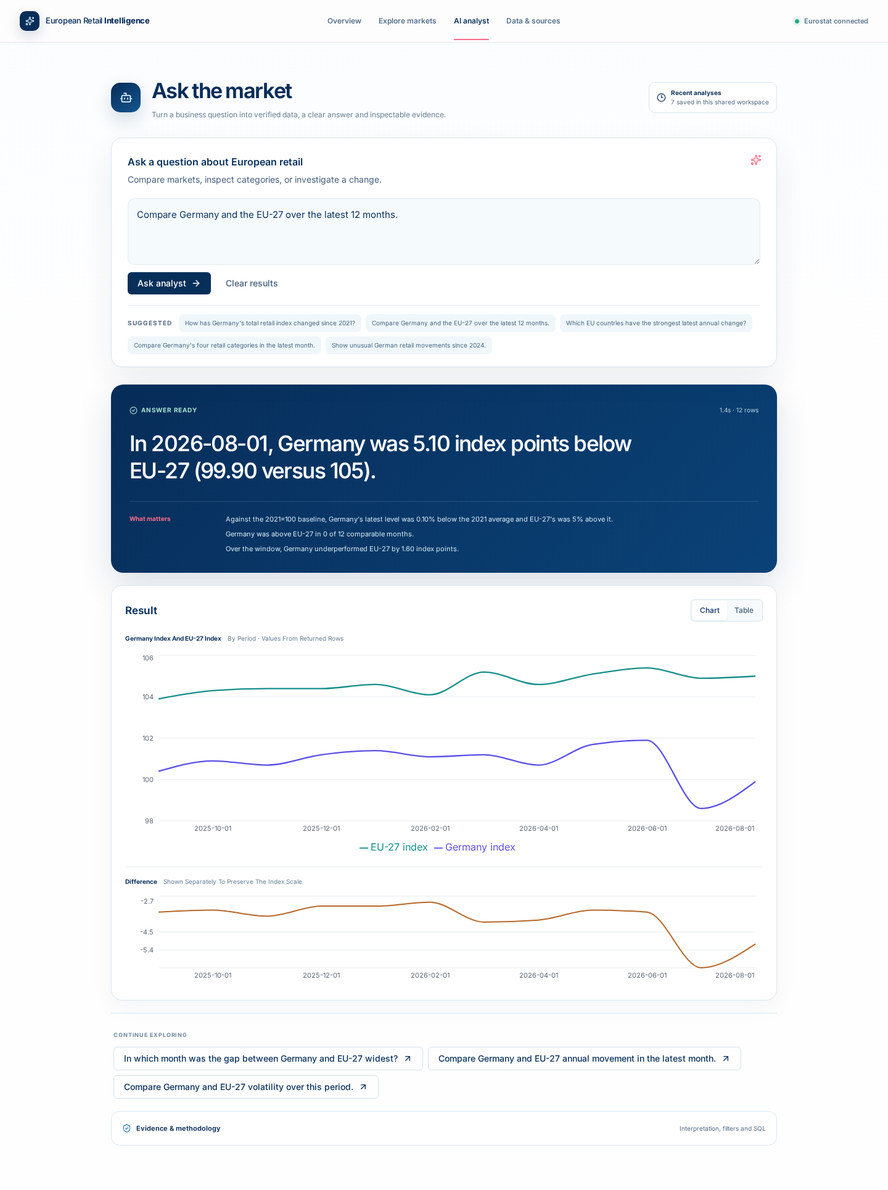
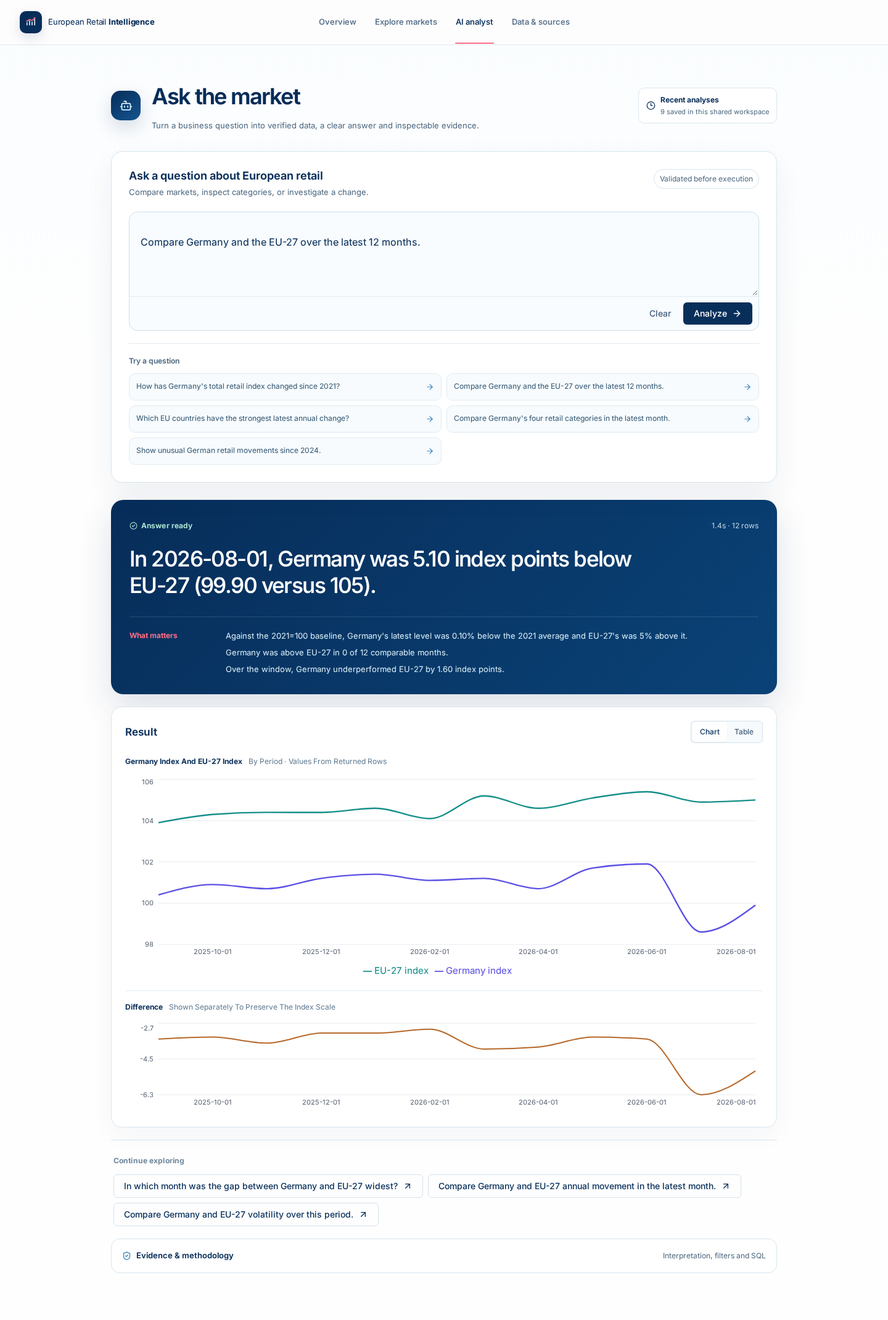
Refine visual cohesion and analyst experience

diff --git a/frontend/src/index.css b/frontend/src/index.css
@@ -12,10 +12,16 @@
   --border: 207 38% 88%; --input: 207 38% 84%; --ring: 349 97% 71%; --radius: .75rem;
   --navy: #072d59; --ice: #dbf2fc; --crimson: #fd6e88; --paper: #fefdfe; --azure: #3283be;
   --increase: #14775f; --decrease: #c83853; --series-germany: #fd6e88; --series-eu: #3283be;
+  --font-primary: InterVariable, Inter, ui-sans-serif, system-ui, sans-serif;
+  --type-display: clamp(3rem, 6vw, 4.875rem); --type-page: clamp(2.125rem, 4vw, 3rem); --type-section: clamp(1.5rem, 2.4vw, 2rem);
+  --type-subheading: 1.125rem; --type-body: .9375rem; --type-supporting: .8125rem; --type-meta: .75rem; --type-kpi: 1.75rem; --type-chart: .75rem;
+  --leading-tight: 1.08; --leading-heading: 1.2; --leading-body: 1.65;
+  --weight-regular: 430; --weight-medium: 560; --weight-semibold: 650; --weight-bold: 740;
+  --space-section: clamp(2.75rem, 6vw, 4.5rem); --surface-radius: 18px; --control-radius: 10px;
 }
 * { box-sizing: border-box; }
 html { min-width: 320px; background: var(--paper); }
-body { min-width: 320px; min-height: 100vh; margin: 0; background: linear-gradient(180deg, #fafdff 0, #fefefe 38rem); color: var(--navy); font-feature-settings: "cv02", "cv03", "cv04", "cv11"; -webkit-font-smoothing: antialiased; }
+body { min-width: 320px; min-height: 100vh; margin: 0; background: linear-gradient(180deg, #fafdff 0, #fefefe 38rem); color: var(--navy); font-family: var(--font-primary); font-size: var(--type-body); font-weight: var(--weight-regular); line-height: var(--leading-body); font-feature-settings: "cv02", "cv03", "cv04", "cv11"; -webkit-font-smoothing: antialiased; }
 button,input,textarea { font: inherit; }
 button,a,summary { -webkit-tap-highlight-color: transparent; }
 button:focus-visible,a:focus-visible,input:focus-visible,textarea:focus-visible,summary:focus-visible,[role="tab"]:focus-visible { outline: 3px solid rgba(253,110,136,.35); outline-offset: 2px; }
@@ -104,6 +110,119 @@ button:focus-visible,a:focus-visible,input:focus-visible,textarea:focus-visible,
 .full-answer { margin-bottom: 18px; border-bottom: 1px solid #e1ebf2; padding-bottom: 13px; }
 .full-answer p { margin-bottom: 0; color: #274b68; }
 
+/* Semantic typography and shared interaction system */
+.global-header-inner { min-height: 72px; }
+.brand-mark { width: 36px; height: 36px; border-radius: 10px; box-shadow: 0 7px 20px rgba(7,45,89,.14); }
+.brand-mark svg { width: 22px; height: 22px; }
+.brand-name { font-size: var(--type-supporting); font-weight: var(--weight-regular); letter-spacing: -.015em; }
+.brand-name strong { font-weight: var(--weight-bold); }
+.top-nav-link { padding: 10px 13px; font-size: var(--type-supporting); font-weight: var(--weight-medium); }
+.top-nav-link.is-active::after { bottom: -14px; }
+.workspace-page { padding-block: 54px 76px; }
+.page-header { margin-bottom: 36px; }
+.page-header h1 { font-size: var(--type-page); font-weight: var(--weight-semibold); letter-spacing: -.052em; line-height: var(--leading-tight); }
+.page-header p { margin-top: 14px; color: #526d85; font-size: var(--type-body); line-height: var(--leading-body); }
+.page-meta { border-radius: var(--control-radius); padding: 8px 11px; color: #526d85; font-size: var(--type-meta); box-shadow: none; }
+.section-label { color: var(--azure); font-size: var(--type-meta); font-weight: var(--weight-semibold); letter-spacing: .01em; text-transform: none; }
+.panel-heading h2,.data-section h2,.methodology-section h2 { font-size: var(--type-section); font-weight: var(--weight-semibold); line-height: var(--leading-heading); }
+.panel-heading > p { color: #526d85; font-size: var(--type-supporting); line-height: 1.55; }
+
+/* Overview composition */
+.hero-copy { padding-left: 60px; }
+.hero-period { display: grid; grid-template-columns: 18px auto; align-items: center; width: fit-content; gap: 0 9px; color: #c8e6f5; }
+.hero-period svg { grid-row: 1 / 3; width: 17px; }
+.hero-period span { font-size: var(--type-meta); line-height: 1.2; }
+.hero-period strong { color: white; font-size: var(--type-supporting); font-weight: var(--weight-semibold); line-height: 1.4; }
+.hero-copy h1 { margin-top: 31px; font-size: var(--type-display); font-weight: 590; line-height: .95; }
+.hero-copy > p { color: #c5deea; font-size: var(--type-body); line-height: 1.7; }
+.hero-chart-head span { font-size: var(--type-meta); }
+.hero-chart-head strong { font-size: 2.25rem; font-weight: var(--weight-medium); }
+.movement { font-size: var(--type-meta); }
+.trend-legend { display: flex; justify-content: center; gap: 24px; padding: 2px 8px 5px; color: #c5deea; font-size: var(--type-chart); font-weight: var(--weight-medium); }
+.trend-legend span { display: inline-flex; align-items: center; gap: 8px; }
+.legend-line { display: inline-block; width: 22px; height: 3px; border-radius: 4px; background: currentColor; }
+.legend-line.germany { color: var(--series-germany); }
+.legend-line.eu { color: #7dd3fc; }
+.light-chart .trend-legend { color: #526d85; }
+.light-chart .legend-line.eu { color: var(--series-eu); }
+.chart-baseline { font-size: var(--type-meta); }
+.signal-strip { margin-top: 26px; }
+.signal-strip > div { gap: 7px; min-height: 126px; align-content: center; padding: 22px 28px; }
+.signal-strip span { color: #526d85; font-size: var(--type-meta); font-weight: var(--weight-semibold); }
+.signal-strip strong { font-size: var(--type-kpi); font-weight: var(--weight-semibold); line-height: 1.05; }
+.signal-strip small { color: #667f96; font-size: var(--type-meta); line-height: 1.45; }
+.overview-brief { grid-template-columns: minmax(0,1.15fr) minmax(440px,.85fr); align-items: center; gap: 60px; padding: var(--space-section) 40px 16px; }
+.overview-brief h2 { margin-top: 14px; font-size: clamp(1.8rem,3vw,2.5rem); font-weight: 580; }
+.brief-facts { align-self: stretch; align-items: center; }
+.brief-facts p { align-content: center; gap: 8px; padding: 18px 20px; border-right: 1px solid #d8e7f0; }
+.brief-facts p:last-child { border-right: 0; }
+.brief-facts strong { font-size: 1.25rem; font-weight: var(--weight-semibold); }
+.brief-facts span { color: #526d85; font-size: var(--type-meta); line-height: 1.5; }
+
+/* Explore and data labels */
+.explore-tabs > [role="tablist"] [role="tab"] { font-size: var(--type-supporting); font-weight: var(--weight-medium); }
+.inline-metrics span,.data-list span { color: #526d85; font-size: var(--type-meta); line-height: 1.45; }
+.inline-metrics strong,.data-list strong { font-size: 1.45rem; font-weight: var(--weight-semibold); }
+.data-list small,.change-list span,.method-detail,.empty-message p { font-size: var(--type-meta); }
+.country-table > div { min-height: 56px; font-size: var(--type-supporting); }
+.country-table .country-header { min-height: 42px; color: #526d85; font-size: var(--type-meta); font-weight: var(--weight-semibold); text-transform: none; }
+.country-name { display: flex; flex-wrap: wrap; align-items: center; gap: 8px; }
+.provisional-status { display: inline-flex; align-items: center; border: 1px solid #c5ddea; border-radius: 999px; background: #f2f9fc; padding: 2px 7px; color: #48677f; font-size: .6875rem; font-weight: var(--weight-medium); }
+.provisional-note { display: flex; align-items: center; gap: 8px; margin: -8px 0 16px; color: #526d85; font-size: var(--type-meta); }
+.provisional-note svg { width: 15px; flex: 0 0 auto; color: var(--azure); }
+.provisional-note strong { color: var(--navy); font-weight: var(--weight-semibold); }
+
+/* Analyst command surface */
+.analyst-page { width: min(1080px,calc(100% - 64px)); }
+.analyst-intro { margin-bottom: 30px; }
+.analyst-intro h1 { font-size: 2.25rem; font-weight: var(--weight-semibold); }
+.analyst-intro p { margin-top: 7px; color: #526d85; font-size: var(--type-supporting); }
+.query-composer { border-radius: var(--surface-radius); padding: 28px; box-shadow: 0 18px 48px rgba(7,45,89,.065); }
+.composer-heading { display: flex; align-items: flex-start; justify-content: space-between; gap: 20px; }
+.composer-heading label { display: block; font-size: var(--type-subheading); font-weight: var(--weight-semibold); line-height: var(--leading-heading); }
+.composer-heading p { margin: 6px 0 0; color: #526d85; font-size: var(--type-supporting); }
+.composer-shortcut { flex: 0 0 auto; border: 1px solid #d7e6ef; border-radius: 999px; padding: 5px 9px; color: #526d85; font-size: var(--type-meta); }
+.composer-field { margin-top: 20px; overflow: hidden; border: 1px solid #cbdfea; border-radius: 14px; background: #f8fcfe; transition: border-color 180ms ease, box-shadow 180ms ease, background-color 180ms ease; }
+.composer-field:focus-within { border-color: #7db8d8; background: white; box-shadow: 0 0 0 4px rgba(50,131,190,.1); }
+.analyst-input { display: block; width: 100%; min-height: 118px; resize: vertical; border: 0; outline: 0; background: transparent; padding: 18px 18px 10px; color: var(--navy); font: inherit; font-size: 1rem; line-height: 1.6; box-shadow: none; }
+.analyst-input::placeholder { color: #7a91a5; }
+.composer-actions { display: flex; align-items: center; justify-content: flex-end; gap: 4px; border-top: 1px solid #e1ebf2; padding: 9px 10px; }
+.composer-submit { min-width: 112px; }
+.composer-progress { display: flex; align-items: center; gap: 9px; margin-top: 12px; color: #526d85; font-size: var(--type-meta); }
+.composer-progress > span { width: 8px; height: 8px; border-radius: 50%; background: var(--crimson); box-shadow: 0 0 0 4px rgba(253,110,136,.12); animation: pulse 1.2s ease-in-out infinite; }
+.query-suggestions { display: grid; grid-template-columns: repeat(2,minmax(0,1fr)); gap: 8px; margin-top: 20px; padding-top: 18px; }
+.query-suggestions > span { grid-column: 1 / -1; margin: 0 0 2px; color: #526d85; font-size: var(--type-meta); font-weight: var(--weight-semibold); letter-spacing: 0; text-transform: none; }
+.query-suggestion { display: flex; align-items: center; justify-content: space-between; gap: 12px; min-height: 42px; border: 1px solid #e0ebf2; border-radius: var(--control-radius); background: #f7fbfd; padding: 9px 11px; color: #365a76; font-size: var(--type-meta); line-height: 1.4; }
+.query-suggestion svg { width: 14px; flex: 0 0 auto; color: var(--azure); }
+.query-suggestion:hover { transform: none; border-color: #a9cfe2; background: var(--ice); }
+.history-launcher-copy strong,.history-list small { font-size: var(--type-meta); }
+.history-launcher-copy small { font-size: .6875rem; }
+.inline-notice,.error-state p,.clarification-state p { font-size: var(--type-supporting); }
+.clarification-state small,.clarification-submit { font-size: var(--type-meta); }
+.answer-status span,.answer-status small,.answer-values span,.answer-highlights > span,.chart-caption,.result-table-wrap thead,.follow-up-section > span,.evidence-disclosure > summary small,.evidence-overview > div > span,.caveat-list > span,.evidence-overview dt,.evidence-overview dd,.evidence-meta,.analysis-warning { font-size: var(--type-meta); }
+.answer-status span,.follow-up-section > span,.evidence-overview > div > span,.caveat-list > span { letter-spacing: .01em; text-transform: none; }
+.answer-highlights ul,.evidence-overview p,.caveat-list ul,.evidence-disclosure > summary span,.sql-disclosure summary { font-size: var(--type-supporting); }
+
+/* Data methodology composition */
+.health-status p,.health-grid span,.definition-list dt,.definition-list dd { font-size: var(--type-meta); }
+.health-grid strong { font-size: var(--type-kpi); font-weight: var(--weight-semibold); }
+.data-layout { gap: 56px; margin-top: 54px; }
+.definition-list > div { min-height: 54px; align-items: center; }
+.definition-list dd { color: #365a76; line-height: 1.55; }
+.methodology-section { grid-template-columns: minmax(0,1fr) minmax(340px,.8fr); align-items: stretch; gap: 56px; margin-top: 54px; padding-top: 40px; }
+.methodology-intro,.methodology-details { min-width: 0; }
+.methodology-section > div > p,.methodology-section details p { color: #526d85; font-size: var(--type-supporting); line-height: var(--leading-body); }
+.methodology-intro > a { display: inline-flex; align-items: center; gap: 7px; margin-top: 12px; color: var(--azure); font-size: var(--type-supporting); font-weight: var(--weight-semibold); text-decoration: none; }
+.methodology-intro > a:hover { text-decoration: underline; text-underline-offset: 3px; }
+.methodology-intro > a svg { width: 14px; }
+.methodology-details { border-left: 1px solid #d8e7f0; padding-left: 42px; }
+.methodology-details h3 { margin: 0; font-size: var(--type-subheading); font-weight: var(--weight-semibold); }
+.methodology-details > p { margin: 8px 0 18px; }
+.methodology-details details { border-top: 1px solid #d8e7f0; padding-top: 15px; }
+.methodology-section summary { font-size: var(--type-supporting); }
+
+@keyframes pulse { 50% { opacity: .45; transform: scale(.82); } }
+
 @keyframes page-enter { from { opacity: 0; transform: translateY(6px); } to { opacity: 1; transform: none; } }
 @keyframes nav-in { from { transform: scaleX(.5); opacity: 0; } }
 @keyframes spin { to { transform: rotate(360deg); } }
@@ -116,6 +235,30 @@ button:focus-visible,a:focus-visible,input:focus-visible,textarea:focus-visible,
   .explore-tabs > [role="tablist"] { width: 100%; overflow-x: auto; justify-content: flex-start; }.explore-tabs > [role="tablist"] [role="tab"] { flex: 0 0 auto; padding-inline: 12px; }.explore-panel { padding-inline: 0; }.panel-heading { flex-direction: column; gap: 8px; }.panel-heading > p { text-align: left; }.light-chart { padding: 12px 5px; }.light-chart .trend-chart { height: 280px; }.inline-metrics,.data-list { grid-template-columns: 1fr 1fr; }.inline-metrics p:nth-child(2),.data-list > div:nth-child(2) { border-right: 0; }.inline-metrics p,.data-list > div { border-bottom: 1px solid #d8e7f0; padding: 14px 10px; }.category-explore-chart { height: 320px; padding: 10px 0; }.country-table > div { grid-template-columns: 48px 1fr 80px; padding-inline: 8px; }.country-table > div > *:nth-child(3) { display: none; }.change-list article { grid-template-columns: 36px 1fr; }.change-list article > p { grid-column: 2; text-align: left; }
   .analyst-intro { grid-template-columns: auto 1fr; }.analyst-intro h1 { font-size: 28px; }.analyst-intro > .history-launcher { grid-column: 1 / -1; width: 100%; }.query-composer { padding: 20px 16px 16px; }.query-suggestions { align-items: stretch; flex-direction: column; }.query-suggestion { width: 100%; padding: 9px; }.clarification-state { align-items: flex-start; }.clarification-state form { flex-direction: column; }.answer-hero { border-radius: 16px; padding: 22px 18px; }.answer-status { align-items: flex-start; flex-direction: column; }.answer-hero h2 { font-size: 24px; }.answer-values { display: grid; }.answer-values > div { border-left: 0; border-top: 1px solid rgba(219,242,252,.15); padding: 12px 0; }.answer-highlights { grid-template-columns: 1fr; gap: 8px; }.result-surface { padding: 16px 12px; }.result-chart { height: 270px; }.evidence-disclosure > summary { align-items: flex-start; flex-direction: column; gap: 4px; }.evidence-content { grid-template-columns: 1fr; }.sql-disclosure { border-top: 1px solid #e1ebf2; border-left: 0; }.follow-up-section > div { flex-direction: column; align-items: stretch; }
   .health-status { align-items: flex-start; padding: 22px 18px; }.health-grid { grid-template-columns: 1fr 1fr; }.health-grid p { padding: 16px 18px; border-bottom: 1px solid rgba(219,242,252,.13); }.health-grid p:nth-child(2) { border-right: 0; }.data-layout { grid-template-columns: 1fr; }.methodology-section { grid-template-columns: 1fr; gap: 20px; }.methodology-section > a { grid-column: auto; }.definition-list > div { grid-template-columns: 100px 1fr; }
+}
+@media (max-width: 680px) {
+  .workspace-page { padding-block: 32px 52px; }
+  .brand-name { font-size: var(--type-meta); }
+  .hero-period { margin-left: 1px; }
+  .signal-strip > div { min-height: 106px; }
+  .overview-brief { gap: 24px; }
+  .brief-facts p { border-right: 0; }
+  .analyst-intro { gap: 13px; }
+  .analyst-intro h1 { font-size: 1.875rem; }
+  .query-composer { padding: 20px 16px; }
+  .composer-heading { display: block; }
+  .composer-shortcut { display: inline-flex; margin-top: 12px; }
+  .analyst-input { min-height: 132px; padding: 16px; font-size: var(--type-body); }
+  .composer-actions { justify-content: space-between; }
+  .composer-submit { min-width: 120px; }
+  .query-suggestions { grid-template-columns: 1fr; }
+  .query-suggestions > span { grid-column: auto; }
+  .query-suggestion { width: 100%; min-height: 46px; padding: 10px 12px; }
+  .provisional-note { align-items: flex-start; }
+  .country-name { gap: 5px; }
+  .provisional-status { padding: 1px 5px; font-size: .625rem; }
+  .methodology-section { gap: 28px; }
+  .methodology-details { border-top: 1px solid #d8e7f0; border-left: 0; padding-top: 24px; padding-left: 0; }
 }
 @media (prefers-reduced-motion: reduce) { *,*::before,*::after { scroll-behavior: auto !important; animation-duration: .01ms !important; animation-iteration-count: 1 !important; transition-duration: .01ms !important; } }
 @media (max-width: 980px) { .mobile-navigation { display: grid; } }

diff --git a/frontend/src/components/MarketWorkspaces.tsx b/frontend/src/components/MarketWorkspaces.tsx
@@ -1,7 +1,7 @@
 import { useState } from "react";
-import { ArrowRight, CheckCircle2, ExternalLink, Info, TrendingDown, TrendingUp } from "lucide-react";
+import { ArrowRight, CalendarDays, CheckCircle2, ExternalLink, Info, TrendingDown, TrendingUp } from "lucide-react";
 import { Link } from "react-router-dom";
-import { Bar, BarChart, CartesianGrid, Cell, Legend, Line, LineChart, ReferenceLine, ResponsiveContainer, Tooltip, XAxis, YAxis } from "recharts";
+import { Bar, BarChart, CartesianGrid, Cell, Line, LineChart, ReferenceLine, ResponsiveContainer, Tooltip, XAxis, YAxis } from "recharts";
 import type { RetailOverview } from "../types/query";
 import { Tabs, TabsContent, TabsList, TabsTrigger } from "./ui/tabs";
 
@@ -20,7 +20,7 @@ function State({ overview, failed, children }: { overview: RetailOverview | null
 function TrendChart({ data, tone = "dark" }: { data: RetailOverview["history"]; tone?: "dark" | "light" }) {
   const light = tone === "light";
   const axisColor = light ? "#526f88" : "#a9cadb";
-  return <figure className="market-figure" data-chart-ready="true"><figcaption className="sr-only">Germany and EU-27 monthly retail volume indices, with 2021 equal to 100.</figcaption><div className="trend-chart"><ResponsiveContainer width="100%" height="100%"><LineChart data={data} margin={{ top: 12, right: 10, left: -12, bottom: 0 }} accessibilityLayer><CartesianGrid stroke={light ? "#d6e7f0" : "rgba(219,242,252,.18)"} vertical={false}/><XAxis dataKey="period" tickFormatter={monthDate} tick={{ fill: axisColor, fontSize: 11 }} minTickGap={32} axisLine={false} tickLine={false}/><YAxis domain={["auto", "auto"]} tick={{ fill: axisColor, fontSize: 11 }} width={42} axisLine={false} tickLine={false}/><ReferenceLine y={100} stroke={axisColor} strokeOpacity={light ? .65 : .35} strokeDasharray="4 4"/><Tooltip labelFormatter={(value) => monthDate(String(value))} contentStyle={{ border: 0, borderRadius: 12, boxShadow: "0 14px 40px rgba(7,45,89,.18)", color: "#072D59" }}/><Legend iconType="plainline"/><Line name="Germany" type="monotone" dataKey="germany" stroke="#FD6E88" strokeWidth={3} dot={false} connectNulls isAnimationActive={false}/><Line name="EU-27" type="monotone" dataKey="eu" stroke={light ? "#3283BE" : "#7DD3FC"} strokeWidth={2.4} dot={false} connectNulls isAnimationActive={false}/></LineChart></ResponsiveContainer></div></figure>;
+  return <figure className="market-figure" data-chart-ready="true"><figcaption className="sr-only">Germany and EU-27 monthly retail volume indices, with 2021 equal to 100.</figcaption><div className="trend-chart"><ResponsiveContainer width="100%" height="100%"><LineChart data={data} margin={{ top: 12, right: 10, left: -12, bottom: 0 }} accessibilityLayer><CartesianGrid stroke={light ? "#d6e7f0" : "rgba(219,242,252,.18)"} vertical={false}/><XAxis dataKey="period" tickFormatter={monthDate} tick={{ fill: axisColor, fontSize: 12 }} minTickGap={32} axisLine={false} tickLine={false}/><YAxis domain={["auto", "auto"]} tick={{ fill: axisColor, fontSize: 12 }} width={42} axisLine={false} tickLine={false}/><ReferenceLine y={100} stroke={axisColor} strokeOpacity={light ? .65 : .35} strokeDasharray="4 4"/><Tooltip labelFormatter={(value) => monthDate(String(value))} contentStyle={{ border: 0, borderRadius: 10, boxShadow: "0 14px 40px rgba(7,45,89,.18)", color: "#072D59", fontSize: 12 }}/><Line name="Germany" type="monotone" dataKey="germany" stroke="#FD6E88" strokeWidth={3} dot={false} connectNulls isAnimationActive={false}/><Line name="EU-27" type="monotone" dataKey="eu" stroke={light ? "#3283BE" : "#7DD3FC"} strokeWidth={2.4} dot={false} connectNulls isAnimationActive={false}/></LineChart></ResponsiveContainer></div><div className="trend-legend" aria-label="Chart legend"><span><i className="legend-line germany"/>Germany</span><span><i className="legend-line eu"/>EU-27</span></div></figure>;
 }
 
 function PageHeader({ title, description, meta }: { title: string; description: string; meta?: string }) {
@@ -32,7 +32,7 @@ export function OverviewWorkspace({ overview, failed }: { overview: RetailOvervi
     const lead = data.germany_yearly_change == null ? "Germany's latest annual movement is unavailable." : `Germany is ${Math.abs(data.germany_yearly_change).toFixed(1)} index points ${data.germany_yearly_change >= 0 ? "above" : "below"} its level a year earlier.`;
     return <div className="workspace-page overview-page page-enter">
       <section className="overview-hero">
-        <div className="hero-copy"><span className="hero-kicker">European market pulse · {data.latest_period ? monthDate(data.latest_period) : "Latest data"}</span><h1>Retail signals,<br/><em>made legible.</em></h1><p>{lead} Compare the current signal with the EU benchmark and explore what changed.</p><div className="hero-actions"><Link className="hero-button" to="/explore">Explore the market <ArrowRight /></Link><Link className="hero-link" to="/analyst">Ask a question</Link></div></div>
+        <div className="hero-copy"><div className="hero-period"><CalendarDays/><span>Latest reporting period</span><strong>{data.latest_period ? monthDate(data.latest_period) : "Latest data"}</strong></div><h1>Retail signals,<br/><em>made legible.</em></h1><p>{lead} Compare the current signal with the EU benchmark and explore what changed.</p><div className="hero-actions"><Link className="hero-button" to="/explore">Explore the market <ArrowRight /></Link><Link className="hero-link" to="/analyst">Ask a question</Link></div></div>
         <div className="hero-visual"><div className="hero-chart-head"><div><span>Retail volume index</span><strong>{data.germany_value == null ? "—" : number(data.germany_value)}</strong></div><span className={(data.germany_yearly_change ?? 0) < 0 ? "movement down" : "movement up"}>{(data.germany_yearly_change ?? 0) < 0 ? <TrendingDown/> : <TrendingUp/>}{signed(data.germany_yearly_change)} year on year</span></div><TrendChart data={data.history}/><div className="chart-baseline"><Info/> 100 represents average retail volume in 2021</div></div>
       </section>
       <section className="signal-strip" aria-label="Latest market indicators"><div><span>Germany</span><strong>{data.germany_value == null ? "—" : number(data.germany_value)}</strong><small>Retail volume index</small></div><div><span>Monthly move</span><strong>{signed(data.germany_monthly_change)}</strong><small>From previous month</small></div><div><span>Annual move</span><strong>{signed(data.germany_yearly_change)}</strong><small>From same month last year</small></div><div><span>EU position</span><strong>{data.germany_rank ? `${data.germany_rank} / ${data.ranked_country_count}` : "—"}</strong><small>By annual movement</small></div></section>
@@ -51,7 +51,19 @@ export function ExploreWorkspace({ overview, failed }: { overview: RetailOvervie
       <Tabs value={view} onValueChange={setView} className="explore-tabs"><TabsList aria-label="Market exploration views"><TabsTrigger value="performance">Performance</TabsTrigger><TabsTrigger value="categories">Categories</TabsTrigger><TabsTrigger value="countries">Countries</TabsTrigger><TabsTrigger value="changes">Change detection</TabsTrigger></TabsList>
         <TabsContent value="performance" className="explore-panel"><div className="panel-heading"><div><span className="section-label">Trend</span><h2>Germany and EU-27</h2></div><p>Seasonally adjusted retail volume. Values above 100 exceed the 2021 average.</p></div><div className="light-chart"><TrendChart data={data.history} tone="light"/></div><div className="inline-metrics"><p><span>Germany latest</span><strong>{data.germany_value == null ? "—" : number(data.germany_value)}</strong></p><p><span>EU-27 latest</span><strong>{data.eu_value == null ? "—" : number(data.eu_value)}</strong></p><p><span>Current gap</span><strong>{data.germany_value != null && data.eu_value != null ? signed(data.germany_value - data.eu_value) : "—"}</strong></p><p><span>Germany volatility</span><strong>{data.germany_volatility == null ? "—" : number(data.germany_volatility)}</strong></p></div></TabsContent>
         <TabsContent value="categories" className="explore-panel"><div className="panel-heading"><div><span className="section-label">Germany</span><h2>Category position</h2></div><p>Distance in index points from the 2021 average.</p></div><div className="category-explore-chart"><ResponsiveContainer width="100%" height="100%"><BarChart data={categories} layout="vertical" margin={{ left: 12, right: 22 }} accessibilityLayer><CartesianGrid stroke="#e4edf4" horizontal={false}/><XAxis type="number" domain={[-extent, extent]} tickFormatter={(value) => `${Number(value) > 0 ? "+" : ""}${value}`} axisLine={false} tickLine={false}/><YAxis type="category" dataKey="name" width={160} tick={{ fontSize: 11, fill: "#36516e" }} axisLine={false} tickLine={false}/><ReferenceLine x={0} stroke="#072D59"/><Tooltip formatter={(value) => [`${signed(Number(value))} from 2021`, "Position"]}/><Bar dataKey="deviation" radius={4} isAnimationActive={false}>{categories.map((item) => <Cell key={item.code} fill={item.deviation < 0 ? "#FD6E88" : "#3283BE"}/>)}</Bar></BarChart></ResponsiveContainer></div><div className="data-list">{data.categories.map((item) => <div key={item.code}><span>{item.name}</span><strong>{number(item.value)}</strong><small className={(item.yearly_change ?? 0) < 0 ? "negative" : "positive"}>{signed(item.yearly_change)} annual</small></div>)}</div></TabsContent>
-        <TabsContent value="countries" className="explore-panel"><div className="panel-heading"><div><span className="section-label">Benchmark</span><h2>Annual movement by country</h2></div><p>Leading countries plus Germany, ranked on the latest comparable month.</p></div><div className="country-table" role="table" aria-label="Country benchmark"><div role="row" className="country-header"><span>Rank</span><span>Market</span><span>Index</span><span>Annual move</span></div>{countries.map((country) => <div role="row" className={country.code === "DE" ? "is-germany" : ""} key={country.code}><span>{String(country.rank).padStart(2, "0")}</span><strong>{country.name}{country.provisional ? " *" : ""}</strong><span>{number(country.value)}</span><span className={country.yearly_change < 0 ? "negative" : "positive"}>{signed(country.yearly_change)}</span></div>)}</div><p className="footnote">* Provisional observation, subject to revision.</p></TabsContent>
+        <TabsContent value="countries" className="explore-panel">
+          <div className="panel-heading"><div><span className="section-label">Benchmark</span><h2>Annual movement by country</h2></div><p>Leading countries plus Germany, ranked on the latest comparable month.</p></div>
+          <div className="provisional-note"><Info/><span><strong>Provisional data</strong> — these values may be revised by Eurostat.</span></div>
+          <div className="country-table" role="table" aria-label="Country benchmark">
+            <div role="row" className="country-header"><span>Rank</span><span>Market</span><span>Index</span><span>Annual move</span></div>
+            {countries.map((country) => <div role="row" className={country.code === "DE" ? "is-germany" : ""} key={country.code}>
+              <span>{String(country.rank).padStart(2, "0")}</span>
+              <strong className="country-name"><span>{country.name}</span>{country.provisional && <span className="provisional-status" aria-label="Provisional data; this value may be revised by Eurostat" title="Provisional data; this value may be revised by Eurostat">Provisional</span>}</strong>
+              <span>{number(country.value)}</span>
+              <span className={country.yearly_change < 0 ? "negative" : "positive"}>{signed(country.yearly_change)}</span>
+            </div>)}
+          </div>
+        </TabsContent>
         <TabsContent value="changes" className="explore-panel"><div className="panel-heading"><div><span className="section-label">Change detection</span><h2>Unusual recent movements</h2></div><p>Statistical flags identify movements worth investigating; they do not claim a cause.</p></div>{data.anomalies.length ? <div className="change-list">{data.anomalies.map((item, index) => <article key={`${item.geography}-${index}`}><span className={`change-icon ${item.direction}`}>{item.direction === "increase" ? <TrendingUp/> : <TrendingDown/>}</span><div><strong>{item.geography}</strong><span>{item.category} · {monthDate(item.period)}</span></div><p><strong>{signed(item.monthly_change)}</strong><span>monthly · score {number(Math.abs(item.score))}</span></p></article>)}</div> : <div className="empty-message"><CheckCircle2/><strong>No unusual movements detected</strong><p>No recent change exceeded the robust anomaly threshold.</p></div>}<details className="method-detail"><summary>How change detection works</summary><p>A robust score compares each monthly change with up to 36 preceding changes. Absolute scores above 3.5 are flagged for review.</p></details></TabsContent>
       </Tabs>
     </div>;
@@ -64,7 +76,7 @@ export function DataWorkspace({ overview, failed }: { overview: RetailOverview |
     return <div className="workspace-page page-enter"><PageHeader title="Data & sources" description="Coverage, freshness and methodology for the evidence used throughout the platform." meta={`Updated ${fullDate(data.source_updated_at)}`}/>
       <section className="data-health"><div className="health-status"><span><CheckCircle2/></span><div><strong>Dataset operational</strong><p>The dashboard and AI analyst query the same imported Eurostat observations.</p></div></div><div className="health-grid"><p><strong>{data.observation_count.toLocaleString()}</strong><span>observations</span></p><p><strong>{completeness == null ? "—" : `${number(completeness)}%`}</strong><span>cell completeness</span></p><p><strong>{data.geography_count}</strong><span>geographies</span></p><p><strong>{data.category_count}</strong><span>categories</span></p></div></section>
       <div className="data-layout"><section className="data-section"><span className="section-label">Coverage</span><h2>What is included</h2><dl className="definition-list"><div><dt>Period</dt><dd>{fullDate(data.earliest_period)} — {fullDate(data.latest_period)}</dd></div><div><dt>Geographies</dt><dd>EU-27 aggregate and European Union member states</dd></div><div><dt>Measure</dt><dd>Seasonally and calendar-adjusted retail trade volume index</dd></div><div><dt>Reference</dt><dd>2021 average = 100; values are not currency or revenue</dd></div></dl></section><section className="data-section"><span className="section-label">Quality</span><h2>Known status</h2><dl className="definition-list"><div><dt>Provisional values</dt><dd>{data.provisional_count.toLocaleString()} observations may be revised</dd></div><div><dt>Unavailable cells</dt><dd>{data.missing_cells.toLocaleString()} retained as missing rather than imputed</dd></div><div><dt>Latest ranking</dt><dd>{data.ranked_country_count} of 27 countries available</dd></div><div><dt>Snapshot</dt><dd>{data.source_sha256 ? `${data.source_sha256.slice(0, 16)}…` : "Checksum unavailable"}</dd></div></dl></section></div>
-      <section className="methodology-section"><div><span className="section-label">Methodology</span><h2>Transparent calculations</h2><p>Monthly and annual changes are index-point differences. Country ranks use the latest comparable annual movement. Volatility and anomaly scores are calculated locally from imported observations.</p></div><details><summary>Technical methodology and safeguards</summary><p>The application preserves missing values, labels provisional observations, applies bounded result payloads, and validates generated read-only SQL before execution. Natural-language interpretation is separate from deterministic calculations.</p></details><a href="https://ec.europa.eu/eurostat/databrowser/view/sts_trtu_m/default/table" target="_blank" rel="noreferrer">Open Eurostat dataset <ExternalLink/></a></section>
+      <section className="methodology-section"><div className="methodology-intro"><span className="section-label">Methodology</span><h2>Transparent calculations</h2><p>Monthly and annual changes are index-point differences. Country ranks use the latest comparable annual movement. Volatility and anomaly scores are calculated locally from imported observations.</p><a href="https://ec.europa.eu/eurostat/databrowser/view/sts_trtu_m/default/table" target="_blank" rel="noreferrer">Open Eurostat dataset <ExternalLink/></a></div><div className="methodology-details"><h3>How evidence is handled</h3><p>Source values remain traceable from import through every chart, table and analysis result.</p><details><summary>Technical methodology and safeguards</summary><p>The application preserves missing values, labels provisional observations, applies bounded result payloads, and validates generated read-only SQL before execution. Natural-language interpretation is separate from deterministic calculations.</p></details></div></section>
     </div>;
   }}</State>;
 }

diff --git a/frontend/src/components/QueryInputCard.tsx b/frontend/src/components/QueryInputCard.tsx
@@ -1,5 +1,5 @@
 import type { ExampleItem } from "../types/query";
-import { ArrowRight, LoaderCircle, Sparkles } from "lucide-react";
+import { ArrowRight, LoaderCircle } from "lucide-react";
 import { Button } from "./ui/button";
 
 type Props = {
@@ -20,53 +20,41 @@ export function QueryInputCard({
 }: Props) {
   return (
     <section className="query-composer">
-      <div className="composer-icon" aria-hidden="true"><Sparkles /></div>
       <form
         onSubmit={(event) => {
           event.preventDefault();
           onSubmit();
         }}
       >
-        <label
-          htmlFor="question"
-          className="block text-base font-semibold text-foreground"
-        >
-          Ask a question about European retail
-        </label>
-        <p id="question-hint" className="mt-1.5 text-sm leading-relaxed text-muted-foreground">
-          Compare markets, inspect categories, or investigate a change.
-        </p>
-        <textarea
-          id="question"
-          aria-describedby="question-hint"
-          maxLength={2000}
-          value={question}
-          disabled={isLoading}
-          onChange={(event) => onQuestionChange(event.target.value)}
-          placeholder="How has Germany's total retail index changed since 2021?"
-          className="input analyst-input"
-        />
-        <div className="mt-3 flex flex-wrap items-center gap-2">
-          <Button disabled={isLoading || !question.trim()}>
-            {isLoading ? <><LoaderCircle className="animate-spin" /> Working through the data…</> : <>Ask analyst <ArrowRight /></>}
-          </Button>
-          <Button
-            type="button"
-            variant="ghost"
-            disabled={isLoading}
-            onClick={onClear}
-          >
-            Clear results
-          </Button>
-          {isLoading && (
-            <span role="status" className="ml-1 text-xs text-muted-foreground">
-              Building and validating your answer…
-            </span>
-          )}
+        <div className="composer-heading">
+          <div>
+            <label htmlFor="question">Ask a question about European retail</label>
+            <p id="question-hint">Compare markets, inspect categories, or investigate a change.</p>
+          </div>
+          <span className="composer-shortcut">Validated before execution</span>
         </div>
+        <div className="composer-field">
+          <textarea
+            id="question"
+            aria-describedby="question-hint"
+            maxLength={2000}
+            value={question}
+            disabled={isLoading}
+            onChange={(event) => onQuestionChange(event.target.value)}
+            placeholder="How has Germany's total retail index changed since 2021?"
+            className="analyst-input"
+          />
+          <div className="composer-actions">
+            <Button type="button" variant="ghost" disabled={isLoading} onClick={onClear}>Clear</Button>
+            <Button className="composer-submit" aria-label={isLoading ? "Working through the data…" : "Ask analyst"} disabled={isLoading || !question.trim()}>
+              {isLoading ? <><LoaderCircle className="animate-spin" /> Analyzing…</> : <>Analyze <ArrowRight /></>}
+            </Button>
+          </div>
+        </div>
+        {isLoading && <div role="status" className="composer-progress"><span aria-hidden="true" /> Building a query, checking its safety, and calculating the answer…</div>}
       </form>
       <div className="query-suggestions" aria-label="Example questions">
-        <span>Suggested</span>
+        <span>Try a question</span>
         {examples.map((example) => (
           <button
             key={example.id}
@@ -74,7 +62,7 @@ export function QueryInputCard({
             disabled={isLoading}
             onClick={() => onQuestionChange(example.question)}
           >
-            {example.question}
+            <span>{example.question}</span><ArrowRight aria-hidden="true" />
           </button>
         ))}
       </div>

diff --git a/frontend/src/components/AppShell.tsx b/frontend/src/components/AppShell.tsx
@@ -1,9 +1,10 @@
 import { useState, type ReactNode } from "react";
-import { BarChart3, Bot, Compass, Database, Menu, Sparkles } from "lucide-react";
+import { BarChart3, Bot, Compass, Database, Menu } from "lucide-react";
 import { NavLink, useLocation } from "react-router-dom";
 import { Button } from "./ui/button";
 import { Sheet, SheetClose, SheetContent, SheetDescription, SheetTitle, SheetTrigger } from "./ui/sheet";
 import { cn } from "../lib/utils";
+import { ProductMark } from "./ProductMark";
 
 const navigation = [
   { to: "/overview", label: "Overview", icon: BarChart3 },
@@ -33,17 +34,15 @@ export function AppShell({ children }: { children: ReactNode }) {
       <header className="global-header">
         <div className="global-header-inner">
           <NavLink className="brand-lockup" to="/overview" aria-label="European Retail Intelligence home">
-            <span className="brand-mark" aria-hidden="true"><Sparkles /></span>
+            <span className="brand-mark" aria-hidden="true"><ProductMark /></span>
             <span className="brand-name">European Retail <strong>Intelligence</strong></span>
           </NavLink>
           <Navigation />
-          <div className="header-context" title="Eurostat dataset status"><span className="status-dot" aria-hidden="true" /><span>Eurostat connected</span></div>
           <Sheet open={menuOpen} onOpenChange={setMenuOpen}>
             <SheetTrigger asChild><Button className="mobile-menu-button" variant="ghost" size="icon" aria-label="Open navigation"><Menu /></Button></SheetTrigger>
             <SheetContent side="right" className="mobile-menu-sheet">
-              <div className="mobile-menu-heading"><span className="brand-mark" aria-hidden="true"><Sparkles /></span><div><SheetTitle>European Retail Intelligence</SheetTitle><SheetDescription>{current.label}</SheetDescription></div></div>
+              <div className="mobile-menu-heading"><span className="brand-mark" aria-hidden="true"><ProductMark /></span><div><SheetTitle>European Retail Intelligence</SheetTitle><SheetDescription>{current.label}</SheetDescription></div></div>
               <Navigation mobile onNavigate={() => setMenuOpen(false)} />
-              <p className="mobile-source-status"><span className="status-dot" /> Eurostat data connected</p>
             </SheetContent>
           </Sheet>
         </div>

diff --git a/frontend/src/App.test.tsx b/frontend/src/App.test.tsx
@@ -39,7 +39,7 @@ it("shows the single-source dashboard, answer and auditable result", async () =>
   renderApp();
   await submit();
   expect(await screen.findByText(result.analysis!.answer)).toBeInTheDocument();
-  expect(screen.getByText("Eurostat connected")).toBeInTheDocument();
+  expect(screen.queryByText(/Eurostat (data )?connected/i)).not.toBeInTheDocument();
   expect(screen.queryByText(/forecast/i)).not.toBeInTheDocument();
   expect(screen.queryByText(/UCI/i)).not.toBeInTheDocument();
   expect(screen.getByRole("table")).toBeInTheDocument();
@@ -121,7 +121,7 @@ it("shows purposeful loading feedback while analysis is pending", async () => {
   await userEvent.type(screen.getByLabelText("Ask a question about European retail"), result.question);
   await userEvent.click(screen.getByRole("button", { name: "Ask analyst" }));
   expect(screen.getByRole("button", { name: /Working through the data/ })).toBeDisabled();
-  expect(screen.getByRole("status")).toHaveTextContent("Building and validating your answer");
+  expect(screen.getByRole("status")).toHaveTextContent("Building a query, checking its safety");
 });
 
 it("explains an empty successful result without fabricating findings", async () => {

diff --git a/frontend/src/components/MarketWorkspaces.test.tsx b/frontend/src/components/MarketWorkspaces.test.tsx
@@ -21,6 +21,8 @@ it("organizes categories, countries and change detection into focused tabs", asy
   expect(screen.getByText("Category position")).toBeInTheDocument();
   await userEvent.click(screen.getByRole("tab", { name: "Countries" }));
   expect(screen.getByRole("table", { name: "Country benchmark" })).toHaveTextContent("Spain");
+  expect(screen.getByText(/these values may be revised by Eurostat/i)).toBeInTheDocument();
+  expect(screen.getByText("Provisional", { selector: ".provisional-status" })).toHaveAccessibleName(/may be revised by Eurostat/i);
   await userEvent.click(screen.getByRole("tab", { name: "Change detection" }));
   expect(screen.getByText(/score 4.6/)).toBeInTheDocument();
 });

diff --git a/frontend/src/components/ProductMark.tsx b/frontend/src/components/ProductMark.tsx
@@ -1,0 +1,12 @@
+import type { SVGProps } from "react";
+
+export function ProductMark(props: SVGProps<SVGSVGElement>) {
+  return (
+    <svg viewBox="0 0 32 32" fill="none" aria-hidden="true" {...props}>
+      <path d="M7 22.5v-5M13 22.5V13M19 22.5v-7M25 22.5V9" stroke="currentColor" strokeWidth="2.4" strokeLinecap="round" />
+      <path d="m7 13.5 6-4 6 2.5 6-6" stroke="#FD6E88" strokeWidth="2.4" strokeLinecap="round" strokeLinejoin="round" />
+      <circle cx="7" cy="13.5" r="1.7" fill="#FD6E88" />
+      <circle cx="25" cy="6" r="1.7" fill="#FD6E88" />
+    </svg>
+  );
+}
